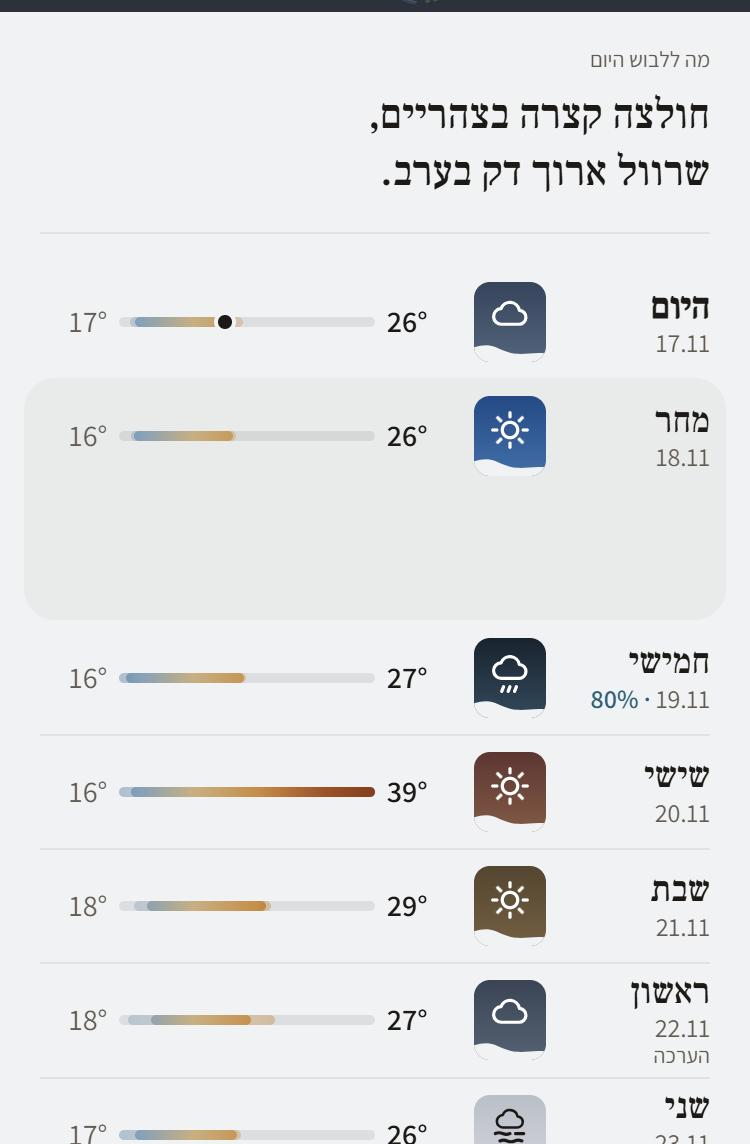
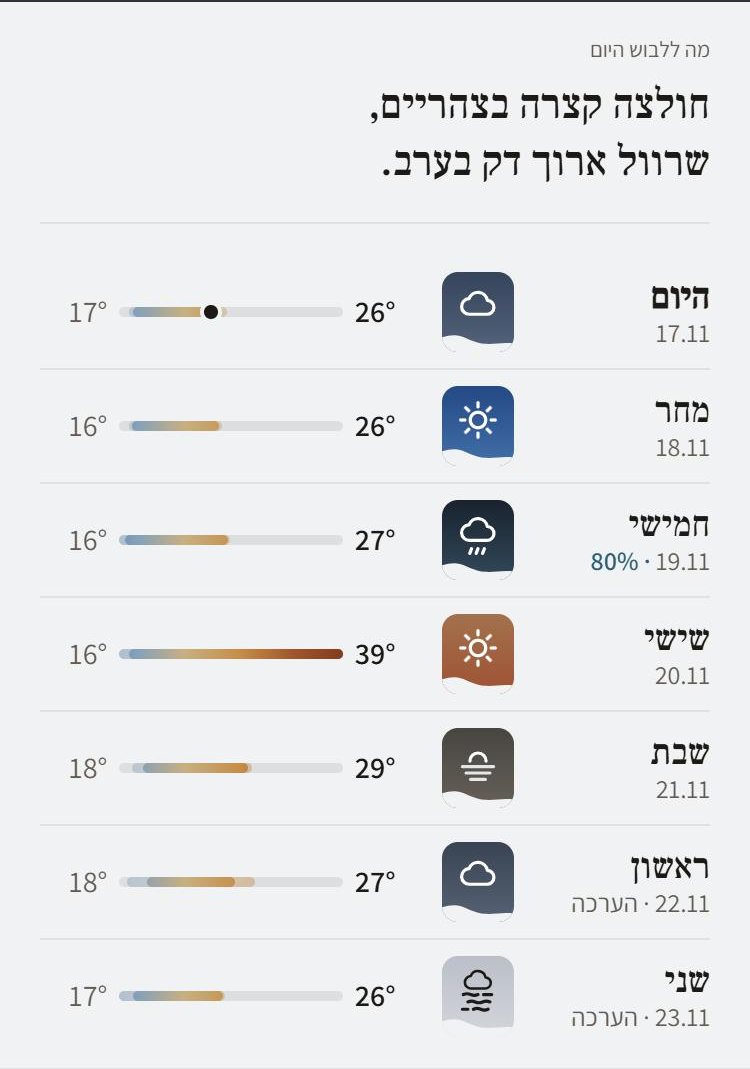
Sheet: heat and dust windows apart, hazy sun on dust days, slate fog window at night, tags on the date line
Fable's after-critique fixes: dust greys toward the overcast sky and draws a rayless sun through haze bands;
heat goes red-orange with a paler top; the pale fog/snow window steps down to slate with white ink on the
dark sheet; 'הערכה' / 'עשוי להשתנות' join the date line; refreshed stills; TASKS.md updated.

diff --git a/src/ui/week/SkyWindow.tsx b/src/ui/week/SkyWindow.tsx
@@ -6,12 +6,27 @@ import styles from './SkyWindow.module.css'
 /** A low ridge the paper cuts into the window's foot, as the valley section meets the sheet above. */
 const RIDGE = 'M0 40V32.6C3.5 31.6 6.5 31.2 9.5 32.1 13.5 33.4 16.5 35.6 21.5 35.9 26.5 36.2 31 35 36 35.8V40Z'
 
-/** A small window onto a day's midday sky, carrying its weather icon in the sky's own ink. Decorative. */
-export function SkyWindow({ sky }: { sky: DaySky }) {
-  const style = { '--win-top': sky.top, '--win-low': sky.low, color: sky.ink } as CSSProperties
+/** Dust: a rayless sun seen through bands of haze (the sharav sun is a flat coin, its rays lost in the dust). */
+function HazySun() {
   return (
-    <span className={styles.window} style={style} aria-hidden="true">
-      <WeatherIcon kind={sky.kind} size={22} decorative className={styles.icon} />
+    <svg className={styles.icon} width="22" height="22" viewBox="0 0 24 24" fill="none" stroke="currentColor"
+      strokeWidth="1.75" strokeLinecap="round" aria-hidden="true">
+      <path d="M7.6 11.5a4.4 4.4 0 0 1 8.8 0" />
+      <path d="M3.5 14.5h17M5.5 18h13M8 21.5h8" opacity="0.85" />
+    </svg>
+  )
+}
+
+/** A small window onto a day's midday sky, carrying its weather in the sky's own ink. Decorative. */
+export function SkyWindow({ sky }: { sky: DaySky }) {
+  const style = { '--win-top': sky.top, '--win-low': sky.low, '--win-ink': sky.ink } as CSSProperties
+  return (
+    <span className={styles.window} style={style} data-pale={sky.ink !== '#FFFFFF' || undefined} aria-hidden="true">
+      {sky.hazy && sky.kind !== 'fog' ? (
+        <HazySun />
+      ) : (
+        <WeatherIcon kind={sky.kind} size={22} decorative className={styles.icon} />
+      )}
       <svg className={styles.ridge} viewBox="0 0 36 40" preserveAspectRatio="none">
         <path d={RIDGE} />
       </svg>

diff --git a/src/ui/week/middaySky.ts b/src/ui/week/middaySky.ts
@@ -19,6 +19,8 @@ export interface DaySky {
   /** What to draw in the window. Wet, fog, snow and thunder days keep the day's own kind (it matters whenever it
    *  comes); dry days take the midday cloud, so the icon never says "overcast" over a clear midday sky. */
   kind: ConditionKind
+  /** Dust over the light threshold at midday: the window draws a hazy sun instead of the icon. */
+  hazy: boolean
 }
 
 const CLOUD_BY_KIND: Partial<Record<ConditionKind, number>> = { clear: 5, partly: 45, cloudy: 100 }
@@ -61,11 +63,11 @@ export function middaySky(day: DayPoint, f: Pick<Forecast, 'hours' | 'air'>): Da
   else if (wet) sky = p.rain
   else {
     sky = mixPair(p.clear, p.overcast, clamp01(cloud / 100))
-    if (day.tempMax >= T.dayTemp.hot && cloud < 50) sky = mixPair(sky, p.heat, 0.75)
+    if (day.tempMax >= T.dayTemp.hot && cloud < 50) sky = mixPair(sky, p.heat, 0.9)
   }
   if (pm10 >= T.dust.light) {
     sky = mixPair(sky, p.dust, clamp01(0.5 + (pm10 - T.dust.light) / (T.dust.heavy - T.dust.light) / 2))
   }
   const ink = Math.min(ratio(WHITE, sky.low), ratio(WHITE, sky.top)) >= 3 ? WHITE : DARK
-  return { top: sky.top.toUpperCase(), low: sky.low.toUpperCase(), ink, kind: shownKind(kind, cloud) }
+  return { top: sky.top.toUpperCase(), low: sky.low.toUpperCase(), ink, kind: shownKind(kind, cloud), hazy: pm10 >= T.dust.light }
 }

diff --git a/src/ui/DayRow.module.css b/src/ui/DayRow.module.css
@@ -6,7 +6,7 @@
 
 .row {
   display: grid;
-  grid-template-columns: 4.5rem 2.5rem 1fr;
+  grid-template-columns: 5.5rem 2.5rem 1fr;
   align-items: center;
   gap: var(--space-2);
   width: 100%;
@@ -34,7 +34,7 @@
 
 .today .day { font-weight: 600; }
 
-/* Day name, date, and (on uncertain days) the tag on its own line, so it never spills out of the column. */
+/* Day name over one muted line: date · rain chance · (on uncertain days) the tag; it wraps rather than spills. */
 .name {
   display: grid;
   justify-items: start;
@@ -48,13 +48,10 @@
   font-size: var(--text-lg);
 }
 
-.date,
-.tag {
+.date {
   font-size: var(--text-sm);
   color: var(--sheet-muted);
 }
-
-.tag { font-size: var(--text-xs); }
 
 .cond {
   display: grid;
@@ -125,7 +122,7 @@
 
 .open + .item { border-color: transparent; }
 
-/* Large text (about 150% and up on a phone): the three columns (≈12.4rem, with gaps) no longer fit, so the range bar takes its own line
+/* Large text (about 150% and up on a phone): the three columns (≈13.4rem, with gaps) no longer fit, so the range bar takes its own line
    under the name, instead of pushing the row past the screen edge. In rem, so it follows the text size. */
 @container week (max-width: 13.5rem) {
   .row {

diff --git a/src/ui/week/middaySky.test.ts b/src/ui/week/middaySky.test.ts
@@ -34,7 +34,17 @@ describe('middaySky', () => {
     const light = sky({ cloudCover: 0 }, { pm10: 120 }).low
     const heavy = sky({ cloudCover: 0 }, { pm10: 400 }).low
     expect(light).not.toBe(SKY_THEMES.clearDay.mid)
-    expect(heavy).toBe(SKY_THEMES.dust.mid)
+    expect(heavy).not.toBe(light)
+    expect(sky({ cloudCover: 0 }, { pm10: 120 }).hazy).toBe(true)
+    expect(sky({ cloudCover: 0 }).hazy).toBe(false)
+  })
+
+  it('heat and dust skies stay apart', () => {
+    const heat = sky({ cloudCover: 0 }, { max: 40 })
+    const dust = sky({ cloudCover: 0 }, { pm10: 400 })
+    // Warmth = red minus blue: heat is clearly warmer than the greyed dust sky.
+    const warmth = (hex: string) => parseInt(hex.slice(1, 3), 16) - parseInt(hex.slice(5, 7), 16)
+    expect(warmth(heat.low) - warmth(dust.low)).toBeGreaterThan(60)
   })
 
   it('a hot clear day leans to the heat sky', () => {

diff --git a/src/ui/DayRow.tsx b/src/ui/DayRow.tsx
@@ -48,6 +48,7 @@ export function DayRow({ day, sky, name, index, scaleMin, scaleMax, isToday, now
   const summary = [
     name,
     conditionLabel(kind, true),
+    sky.hazy ? 'אובך' : '',
     `מקסימום ${formatTemp(day.tempMax)}`,
     `מינימום ${formatTemp(day.tempMin)}`,
     showProb ? `סיכוי לגשם ${formatProb(prob)}` : '',
@@ -74,8 +75,8 @@ export function DayRow({ day, sky, name, index, scaleMin, scaleMax, isToday, now
           <span className={styles.date}>
             <bdi>{shortDate(day.date)}</bdi>
             {showProb && <span className={styles.prob}> · {formatProb(prob)}</span>}
+            {tag && <> · {tag}</>}
           </span>
-          {tag && <span className={styles.tag}>{tag}</span>}
         </span>
         <span className={styles.cond}>
           <SkyWindow sky={sky} />

diff --git a/src/ui/week/SkyWindow.module.css b/src/ui/week/SkyWindow.module.css
@@ -9,6 +9,7 @@
   border-radius: 8px;
   overflow: hidden;
   background: linear-gradient(180deg, var(--win-top), var(--win-low));
+  color: var(--win-ink);
 }
 
 .icon { position: relative; z-index: 1; }
@@ -25,6 +26,13 @@
 /* On the dark paper the deep skies (overcast, rain) would sink into the navy: a faint light rim keeps the window. */
 :global(.dark-sheet) .window {
   box-shadow: inset 0 0 0 1px rgb(255 255 255 / 0.1);
+}
+
+/* A pale (fog/snow) window would be the brightest thing on the dark paper, on the least certain day:
+   at night it steps down to slate with light ink (white on #566170 ≈ 6:1). */
+:global(.dark-sheet) .window[data-pale] {
+  background: linear-gradient(180deg, #6A7484, #566170);
+  color: #FFFFFF;
 }
 
 @media (forced-colors: active) {

diff --git a/src/ui/week/skyPalette.ts b/src/ui/week/skyPalette.ts
@@ -29,8 +29,10 @@ export function skyPalette(): SkyPalette {
     clear: pair(t.clearDay.top, t.clearDay.mid),
     overcast: pair(t.cloudy.top, t.cloudy.mid),
     rain: pair(t.rain.top, t.rain.mid),
-    dust: pair(t.dust.top, t.dust.mid),
-    heat: pair(t.heat.top, t.heat.mid),
+    // Dust: a desaturated ochre-grey (sharav greys the sky); heat: red-orange, paler at the top (glare).
+    // Kept apart on purpose, so the two brown days of a week never read the same.
+    dust: pair(mix(t.dust.top, t.cloudy.top, 0.45), mix(t.dust.mid, t.cloudy.mid, 0.45)),
+    heat: pair(mix(t.heat.mid, t.heat.horizon, 0.28), mix(t.heat.mid, '#C8401C', 0.5)),
     pale: pair(t.cloudy.horizon, mix(t.cloudy.horizon, '#FFFFFF', 0.35)),
   }
 }

diff --git a/TASKS.md b/TASKS.md
@@ -247,6 +247,27 @@ Goal: Open-Meteo request volume follows places, not users (free tier limits per 
       live: MISS→HIT→HIT, 8 parallel connections all HIT with one X-Fetched-At, 400, preflight 204/403
 - [x] PR against main
 
+## Sheet polish — the sheet belongs to the sky — 2026-11-17 (branch `claude/sheet-polish-4018dc`)
+Fable critique before → build → Fable critique after (verdict: belongs; its three small fixes done).
+- [x] Wear card: side stripe gone; xs muted label over a `--text-lead` (21 px) balanced serif sentence, hairline below
+- [x] Week rows: `week/SkyWindow.tsx` — a 36×40 window of the day's midday sky (hours 11–14: cloud, rain, dust, heat)
+      carrying the icon in the sky's ink, a ridge cut at its foot in paper colour (the open row's well sets `--win-ground`)
+  - [x] `week/middaySky.ts` (+ tests): dry days draw the midday cloud (no "overcast" icon over a clear midday);
+        wet/fog/snow/thunder keep the day's kind; dust → greyed ochre + hand-drawn hazy sun (+ "אובך" in the label);
+        heat → red-orange with a paler top; fog/snow → pale window with dark ink, slate with white ink on the dark sheet
+  - [x] Sky colours read only through `week/skyPalette.ts` (adapter over `SKY_THEMES`): when the scene lane moves
+        to continuous light, remap there
+  - [x] Icon ink ≥ 3:1 on every reachable window sky (test grid); heat vs dust kept apart (test)
+- [x] Date line carries rain % and the tag ("22.11 · הערכה"); name column 5.5 rem; chevrons removed (open well marks it)
+- [x] "השבוע הקרוב" kept for screen readers only
+- [x] RangeBar: absolute ramp in sky colours (indigo → clear blue → sand → rust), interpolated; 5 px; spread as a pale
+      tint, no outline; today = small ink dot with a paper halo
+- [x] Stills (375 px): `docs/design/qa/sheet-{before,after}-{day,night}.png` (fixture via `offline.html`),
+      `sheet-after-variety-day.png` + `sheet-after-variety-night-expanded.png` (synthetic rain/heat/dust/fog days)
+- [ ] Not verified: real rain/dust/heat weeks (only synthetic data); a phone; screen reader; 200% text checked by eye
+      at night only; no component tests (vitest is node-only); the rows' tap affordance without chevrons is a judgment call
+- [ ] Later (Fable): the hard straight seam between valley and sheet
+
 ## Known gaps / polish
 - [ ] Hero meta column hugs the left edge on wide phones; village dot tight against sheet edge
 - [ ] Rain/dust/heat seen via `?wx=` overrides, not yet in real weather
